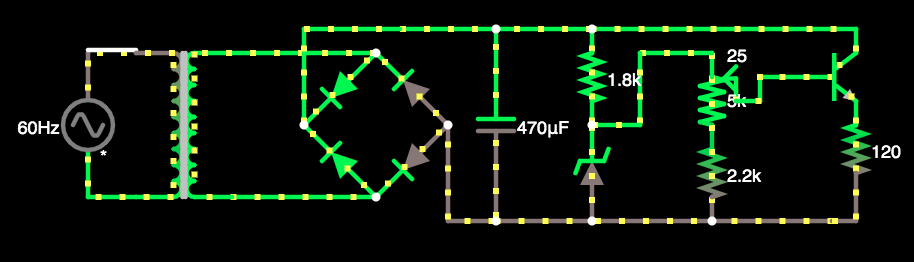
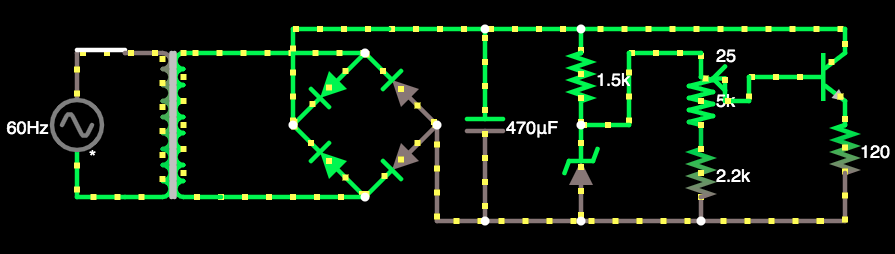
Fix project

Changed region(s): [[0.0, 0.0827, 0.9955, 0.8819], [0.5128, 0.3307, 0.5732, 0.3858], [0.5128, 0.2205, 0.5732, 0.2756]]

diff --git a/README.md b/README.md
@@ -31,6 +31,6 @@
 |Custo Total || | **R$67,53** |
 
 # Links
-- Fonte no Falstad **[aqui](http://tinyurl.com/y7ye55ze)**
+- Fonte no Falstad **[aqui](http://tinyurl.com/ycx5dwek)**
 - Video de explicação do projeto **[aqui]()**
 - Projeto no EAGLE **[aqui]()**
